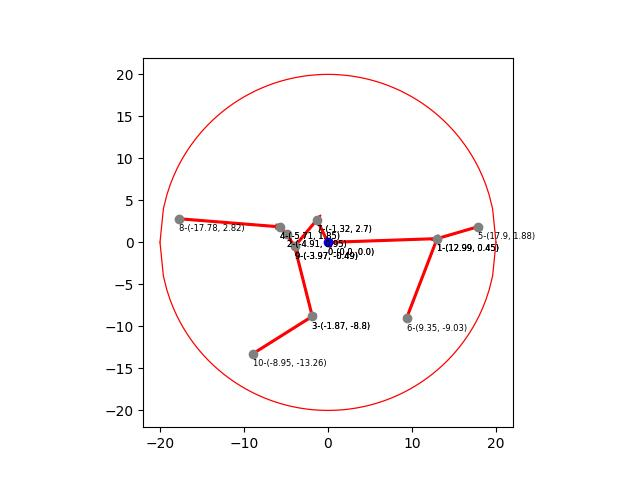
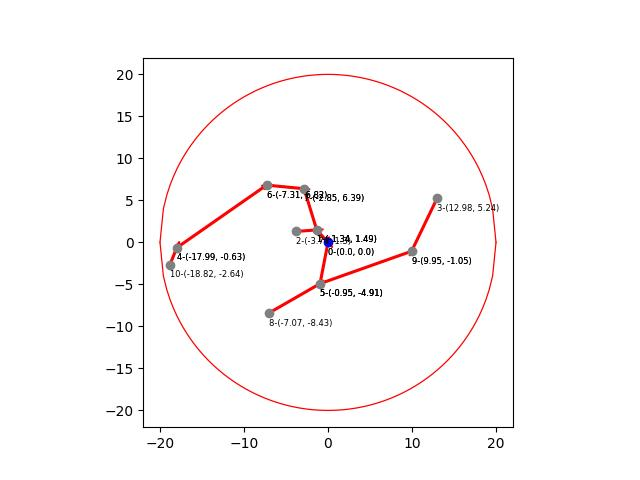
1 вариант решения сем №3

Changed region(s): [[0.25, 0.375, 0.8438, 0.7812], [0.625, 0.5938, 0.7188, 0.6875]]

diff --git a/lab3.py b/lab3.py
@@ -17,7 +17,7 @@ def get_points_on_circle(n, r):
 
 
 def d(x, y):
-    return (x[0] - y[0])**2 + (x[1] - y[1])**2
+    return np.round(np.sqrt((x[0] - y[0])**2 + (x[1] - y[1])**2), 2)
 
 
 def get_matrix_cost(points):
